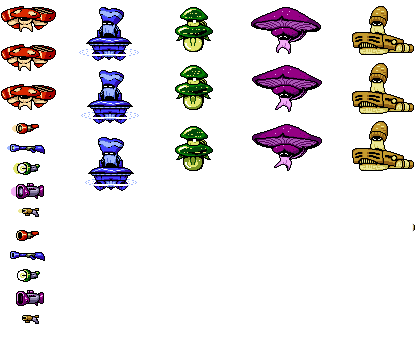
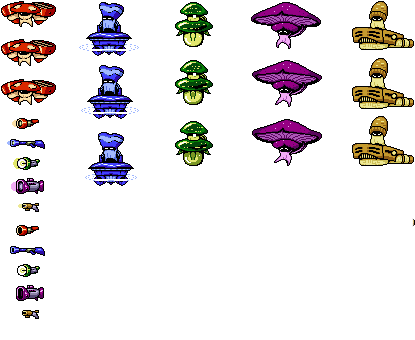
rough flyers animation

diff --git a/javascript/rival.js b/javascript/rival.js
@@ -20,11 +20,14 @@ class Rival extends EngineObject {
 		super.update();
 	}
 	render() {
-		let frame = ((time * 4) % 2) | 0;
 		drawTile(
 			this.pos,
 			this.size,
-			this.isSecurity ? this.idleTI.frame(frame) : this.idleTI.offset(vec2(0)),
+			this.isSecurity
+				? this.idleTI.frame(((time * 3) % 2) | 0)
+				: this.idleTI.offset(
+						vec2(0, this.size.y * 2 * Math.floor((time * 3) % 2)),
+					),
 			undefined,
 			this.angle,
 			true,

diff --git a/javascript/textures.js b/javascript/textures.js
@@ -258,7 +258,7 @@ function Textures() {
 					size: vec2(75, 55),
 				},
 				yellow_shroomy: {
-					pos: vec2(350, 0),
+					pos: vec2(352, 0),
 					size: vec2(65, 58),
 				},
 			},
